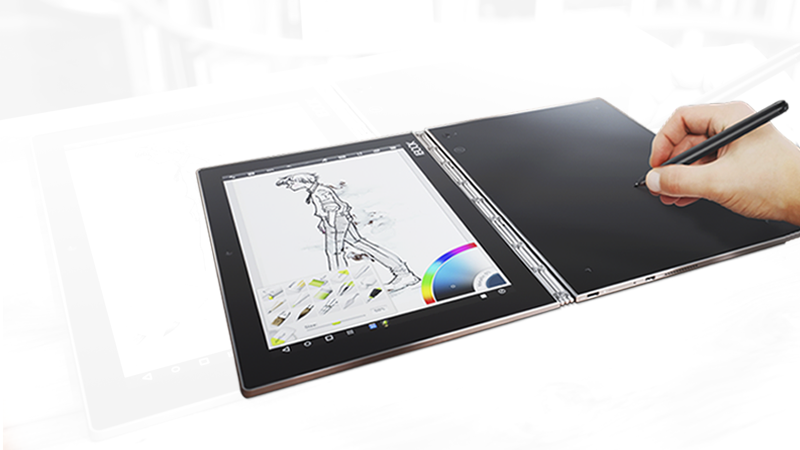
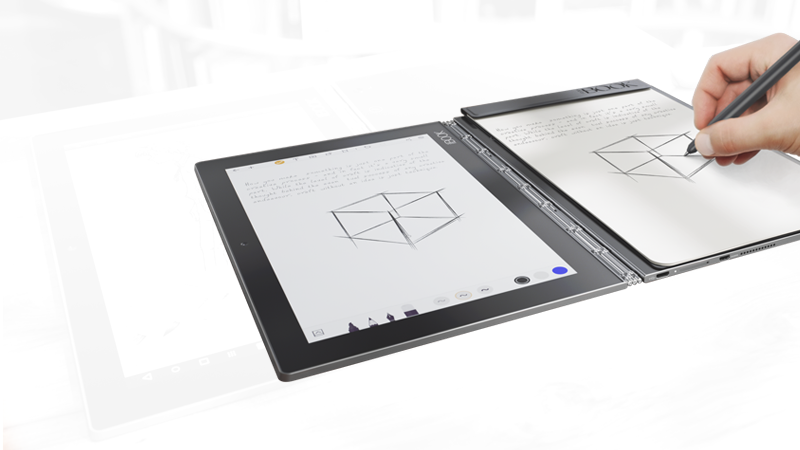
ficha toga windows-finalizada

Changed region(s): [[0.25, 0.0622, 1.0, 0.9022], [0.2188, 0.3733, 0.25, 0.4044]]

diff --git a/output/fichas_premium/yoga_book_windows.html b/output/fichas_premium/yoga_book_windows.html
@@ -272,7 +272,7 @@
 			
 						<div class="mett__layout-row mett__justify-center mett__layout-wrap mett__flex-lg-100 mett__flex-md-100 mett__flex-md-90 mett__flex-sm-100 mett__flex-xs-100 mett__flex-gt-100" style="position: absolute; color:white; z-index: 2;  height: 100%; ">
 
-							<div class="mett__layout-row mett__justify-center mett__layout-wrap mett__flex-lg-95 mett__flex-md-95 mett__flex-md-100 mett__flex-sm-95 mett__flex-xs-95 mett__flex-gt-95" style=" margin-top: 25%; height: 70%; margin-right: 25px;">
+							<div class="mett__layout-row mett__justify-center mett__layout-wrap mett__flex-lg-90 mett__flex-md-90 mett__flex-md-90 mett__flex-sm-90 mett__flex-xs-90 mett__flex-gt-90" style=" margin-top: 25%; height: 70%; margin-right: 18px;">
 
 
 								<img class="mett__img" src="img/YOGABOOK/banner/icon-2.svg" alt="pen" style="width:30%; margin-bottom:-40px;" />
@@ -288,9 +288,9 @@
 
 
 
-								<div class="mett__layout-row mett__justify-space-between mett__align-center mett__flex-lg-100 mett__flex-md-100 mett__flex-md-100 mett__flex-sm-100 mett__flex-xs-100 mett__flex-gt-100" style="margin-top: -30px; height:; margin-bottom: -10px;">
+								<div class="mett__layout-row mett__justify-space-between mett__align-center mett__flex-lg-100 mett__flex-md-100 mett__flex-md-100 mett__flex-sm-100 mett__flex-xs-100 mett__flex-gt-100 mett__flex-gt-hide mett__flex-sm-show mett__flex-md-show " style="margin-top: -55px; height:;">
 
-										<!--iconos-->
+									<!--iconos-->
 
 								
 										<!--2-->
@@ -399,11 +399,11 @@
 
 						<!--parrafo inferior-->
 
-						<div class="mett__layout-row mett__justify-end mett__align-start mett__layout-wrap mett__flex-lg-100 mett__flex-md-100 mett__flex-md-100 mett__flex-sm-100 mett__flex-xs-100 mett__flex-gt-100" style=" height: 10%; font-family:'Gotham light';font-size: 15px; color:red; margin-top:17%;">
+						<div class="mett__layout-row mett__justify-end mett__align-start mett__layout-wrap mett__flex-lg-100 mett__flex-md-100 mett__flex-md-100 mett__flex-sm-100 mett__flex-xs-100 mett__flex-gt-100" style=" height: 10%; font-family:'Gotham light';font-size: 15px; color:red; margin-top:20%;">
 
 							<div class=" mett__layout-row mett__justify-end mett__layout-wrap mett__align-start mett__flex-lg-100 mett__flex-md-100 mett__flex-md-100 mett__flex-sm-100 mett__flex-xs-100 mett__flex-gt-100">
 
-								<div class=" mett__layout-row mett__justify-center mett__flex-lg-20 mett__flex-md-20 mett__flex-md-20 mett__flex-sm-20 mett__flex-xs-20 mett__flex-gt-20" style="margin-right: 20px;">
+								<div class=" mett__layout-row mett__justify-center mett__flex-lg-25 mett__flex-md-25 mett__flex-md-25 mett__flex-sm-25 mett__flex-xs-25 mett__flex-gt-25" style="margin-right: 20px;">
 
 									<img src="img/SOURCES/LOGOS_SVG/yoga-book-windows-grey.svg" style="width: 100%;">
 
@@ -419,7 +419,7 @@
 								</div>
 							</div>
 
-							<div class="mett__layout-row mett__justify-center mett__flex-lg-85 mett__flex-md-85 mett__flex-md-85 mett__flex-sm-85 mett__flex-xs-85 mett__flex-gt-85 mett__text-subtext" style="text-align: right; color: #474748; margin-top: 50px; font-family: 'Gotham bold'; margin-right: 20px; ">
+							<div class="mett__layout-row mett__justify-center mett__flex-lg-85 mett__flex-md-85 mett__flex-md-85 mett__flex-sm-85 mett__flex-xs-85 mett__flex-gt-85 mett__text-subtext" style="text-align: right; color: #474748; margin-top: 45px; font-family: 'Gotham bold'; margin-right: 20px; ">
 
 								Intel, el logotipo de Intel, Intel Inside, el logotipo Intel Inside, Intel Atom y Intel Atom Inside son marcas comerciales de Intel Corporation en los EE. UU. y/o en otros países. 
 
@@ -444,16 +444,16 @@
 							<div class="mett__flex-gt-50 mett__flex-xs-50 mett__align-center mett__justify-center" style="margin-top: 20px;margin-bottom: 5px; text-align: center;">
 								
 
-									<img class="mett__img" src="img/SOURCES/LOGOS_SVG/phab2.svg" alt="ideapad" style="width:90%;"/>
+									<img class="mett__img" src="img/SOURCES/LOGOS_SVG/yoga-book-windows-grey.svg" alt="yoga" style="width:90%;"/>
 								
 							</div>
 
 
-								<div class="mett__layout-row mett__justify-center mett__align-end mett__flex-lg-80 mett__flex-md-80 mett__flex-md-80 mett__flex-sm-80 mett__flex-xs-100 mett__flex-gt-70" style="font-family: 'Gotham light';font-size: 50px; letter-spacing: -3px; color: #474748; margin-left: ; text-align: center;">
+								<div class="mett__layout-row mett__justify-center mett__align-end mett__flex-lg-80 mett__flex-md-80 mett__flex-md-80 mett__flex-sm-80 mett__flex-xs-100 mett__flex-gt-70" style="font-family: 'Gotham bold';font-size: 50px; letter-spacing: -3px; color: #474748; margin-left: ; text-align: center;">
 									TE DESAFÍO
 								</div>
 
-								<div class="mett__layout-row mett__justify-center mett__align-start mett__flex-lg-80 mett__flex-md-80 mett__flex-md-80 mett__flex-sm-80 mett__flex-xs-100 mett__flex-gt-90" style="font-family: 'Gotham bold'; font-size: 17px; margin-top: -5px; letter-spacing: -1px; color: #474748; margin-left: ; text-align: center;">
+								<div class="mett__layout-row mett__justify-center mett__align-start mett__flex-lg-80 mett__flex-md-80 mett__flex-md-80 mett__flex-sm-80 mett__flex-xs-100 mett__flex-gt-90" style="font-family: 'Gotham light'; font-size: 17px; margin-top: -5px; letter-spacing: -1px; color: #474748; margin-left: ; text-align: center;">
 									 A escribir diferente.
 								</div>
 
@@ -470,10 +470,10 @@
 
 						<!-- Product Image -->
 
-						<div class="mett__flex-lg-hide mett__flex-md-hide mett__flex-sm-hide mett__flex-xs-show mett__flex-gt-show mett__flex-gt-50 mett__flex-xs-60" style="margin-top: 70px;">
+						<div class="mett__flex-lg-hide mett__flex-md-hide mett__flex-sm-hide mett__flex-xs-show mett__flex-gt-show mett__flex-gt-70 mett__flex-xs-90" style="margin-top: 20px;">
 							<div>
 								
-								<img class="mett__img" src="img/PHAB2/header_small-2.png" alt="producto header" style="width: 100%;">
+								<img class="mett__img" src="img/YOGABOOK/banner/header_small-w.png" alt="producto" style="width: 100%;">
 								
 							</div>
 							
@@ -485,25 +485,28 @@
 						<!--parrafo inferior-->
 
 						<div class="mett__layout-row mett__justify-space-between mett__layout-wrap mett__flex-lg-100 mett__flex-md-100 mett__flex-md-100 mett__flex-sm-100 mett__flex-xs-100 mett__flex-gt-90" style="  font-family:'Gotham light';font-size: 15px; color:white; margin-top:0;height: 10%;">
+
 							<div class=" mett__layout-row mett__justify-center mett__flex-xs-30 mett__flex-gt-20">
 
 								<div class="mett__layout-row mett__justify-center mett__flex-sm-50 mett__flex-xs-50 mett__flex-gt-50" >
 
-									<img src="img/PHAB2/cam.svg" style="width: 100%;">
+									<img src="img/YOGABOOK/banner/icon-2.svg" style="width: 100%;">
 								</div>
 
 								<div class="mett__layout-row mett__justify-start mett__flex-lg-70 mett__flex-md-70 mett__flex-md-70 mett__flex-sm-70 mett__flex-xs-10 mett__flex-gt-10" style="font-family: 'Gotham light'; font-size: 11px; margin-left: 5px;">
 
-									<div>CÁMARAS DE NIVEL PROFESIONAL</div>
+									<div>LÁPIZ REAL PEN Y GUARDADO DE NOTAS.</div>
 
 								</div>
 							</div>
 
-								<div class="mett__layout-row mett__justify-end mett__flex-lg-40 mett__flex-md-40 mett__flex-md-40 mett__flex-sm-40 mett__flex-xs-55 mett__flex-gt-55">
+							<div class="mett__layout-row mett__justify-end mett__align-center mett__flex-lg-40 mett__flex-md-40 mett__flex-md-40 mett__flex-sm-40 mett__flex-xs-55 mett__flex-gt-55">
 
-									Lenovo Phab 2, con cámara de 13 megapixeles.
+								MENOS ES MÁS.
 
-								</div>
+							</div>
+
+							
 							
 							
 						</div>
@@ -821,7 +824,7 @@
 
 			<!--& MODULE BACKGROUND IMAGE INFORMACIÓN &-->
 
-			<div class="mett__module-bg-info mett__layout-row mett__layout-wrap mett__justify-center mett__flex-lg-100 mett__flex-md-100 mett__flex-sm-100 mett__flex-xs-100 mett__flex-gt-100" style="background:url('img/YOGABOOK/background_2.png');background-position:0em 0em; background-size:cover; background-repeat:no-repeat;">
+			<div class="mett__module-bg-info mett__layout-row mett__layout-wrap mett__justify-center mett__flex-lg-100 mett__flex-md-100 mett__flex-sm-100 mett__flex-xs-100 mett__flex-gt-100" style="background:url('img/YOGABOOK/windows/background_2.png');background-position:0em 0em; background-size:cover; background-repeat:no-repeat;">
 				
 				<div class="mett__flex-lg-5 mett__flex-md-5 mett__flex-md-5 mett__flex-sm-5 mett__flex-xs-5 mett__flex-gt-5"></div>
 
@@ -903,7 +906,7 @@
 							
 							<div class="mett__flex-lg-60 mett__flex-md-60 mett__flex-sm-60 mett__flex-xs-100 mett__flex-gt-100" style="min-height:150px;">
 								
-								<img class="mett__img" src="img/YOGABOOK/modulo_4.png" style="width: 100%; margin-right: -2em" alt="image closeup">
+								<img class="mett__img" src="img/YOGABOOK/windows/modulo_4.png" style="width: 100%; margin-right: -2em" alt="image closeup">
 
 							</div>
 							
@@ -1077,6 +1080,10 @@
 								
 								<img class="mett__img" src="img/YOGABOOK/modulo_5.1.png" style="width: 100%;" alt="image closeup">
 
+							</div>
+
+							<div class="mett__layout-row mett__justify-end mett__flex-lg-100 mett__flex-md-100 mett__flex-sm-100 mett__flex-xs-100 mett__flex-gt-100">
+								<p class="mett__p">imagen de referencia. Disponible en color negro</p>
 							</div>
 							
 
@@ -1392,7 +1399,7 @@
 							
 							<div class="mett__flex-lg-50 mett__flex-md-50 mett__flex-sm-50 mett__flex-xs-100 mett__flex-gt-100" style="min-height:150px;">
 								
-								<img class="mett__img" src="img/YOGABOOK/modulo_7.png" style="width: 100%;" alt="image closeup">
+								<img class="mett__img" src="img/YOGABOOK/windows/modulo_7.png" style="width: 100%;" alt="image closeup">
 
 							</div>
 
@@ -1517,7 +1524,7 @@
 							
 							<div class="mett__flex-lg-45 mett__flex-md-45 mett__flex-sm-45 mett__flex-xs-100 mett__flex-gt-100" style="min-height:160px; max-width: 100%;">
 								
-								<img class="mett__img" src="img/YOGABOOK/modulo_13.1.png" style="width: 100%;" alt="image closeup">
+								<img class="mett__img" src="img/YOGABOOK/windows/modulo_13.1.png" style="width: 100%;" alt="image closeup">
 
 							</div>
 
